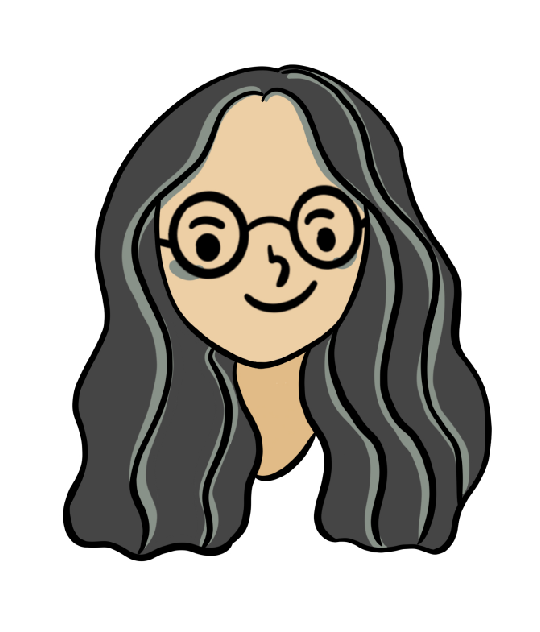
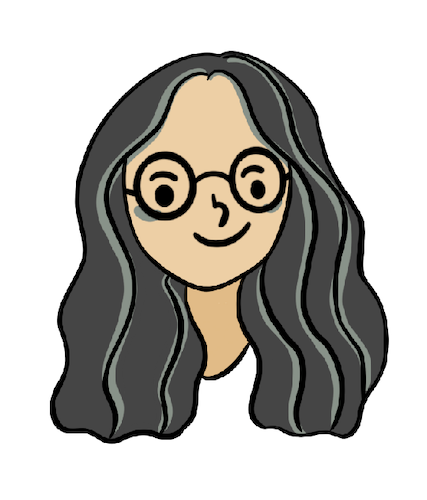
changed image size

diff --git a/yourname.html b/yourname.html
@@ -7,8 +7,8 @@
 </head>
 <body>
    <h1>hello we are karen and shanel</h1>
-   <p><img src="image/karen.png" alt="short description" style="width:500px;height:500px;">
-    <img src="image/shanel.png" alt="short description" style="width:500px;height:500px;"></p>
+   <p><img src="image/karen.png" alt="short description" style="width:427px;height:500px;">
+    <img src="image/shanel.png" alt="short description" style="widows: 373px;px;height:500px;"></p>
    
     <h2>together we are stronger,,</h2>
     
